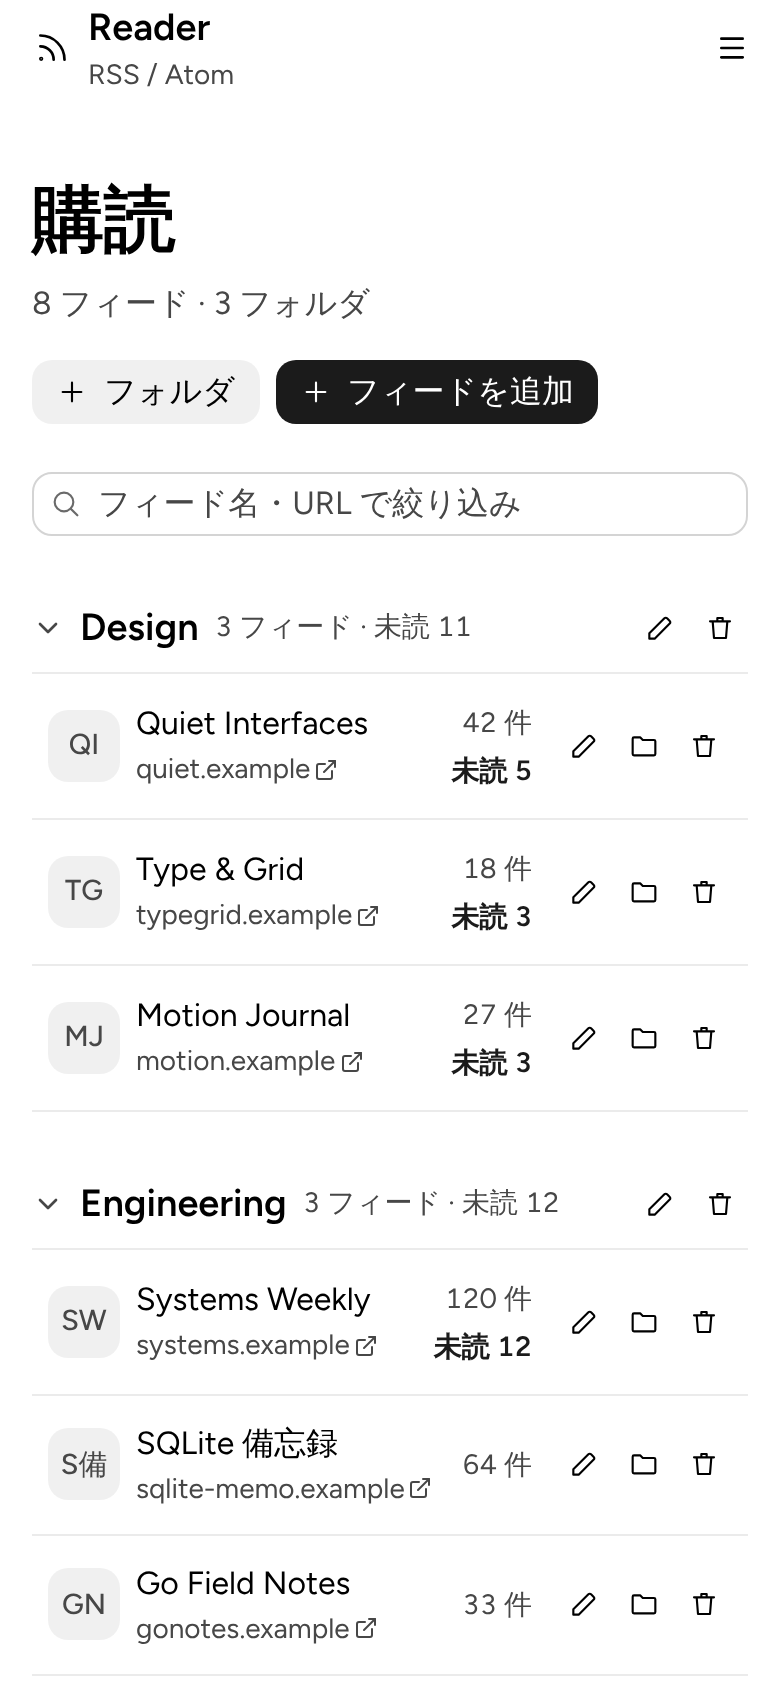
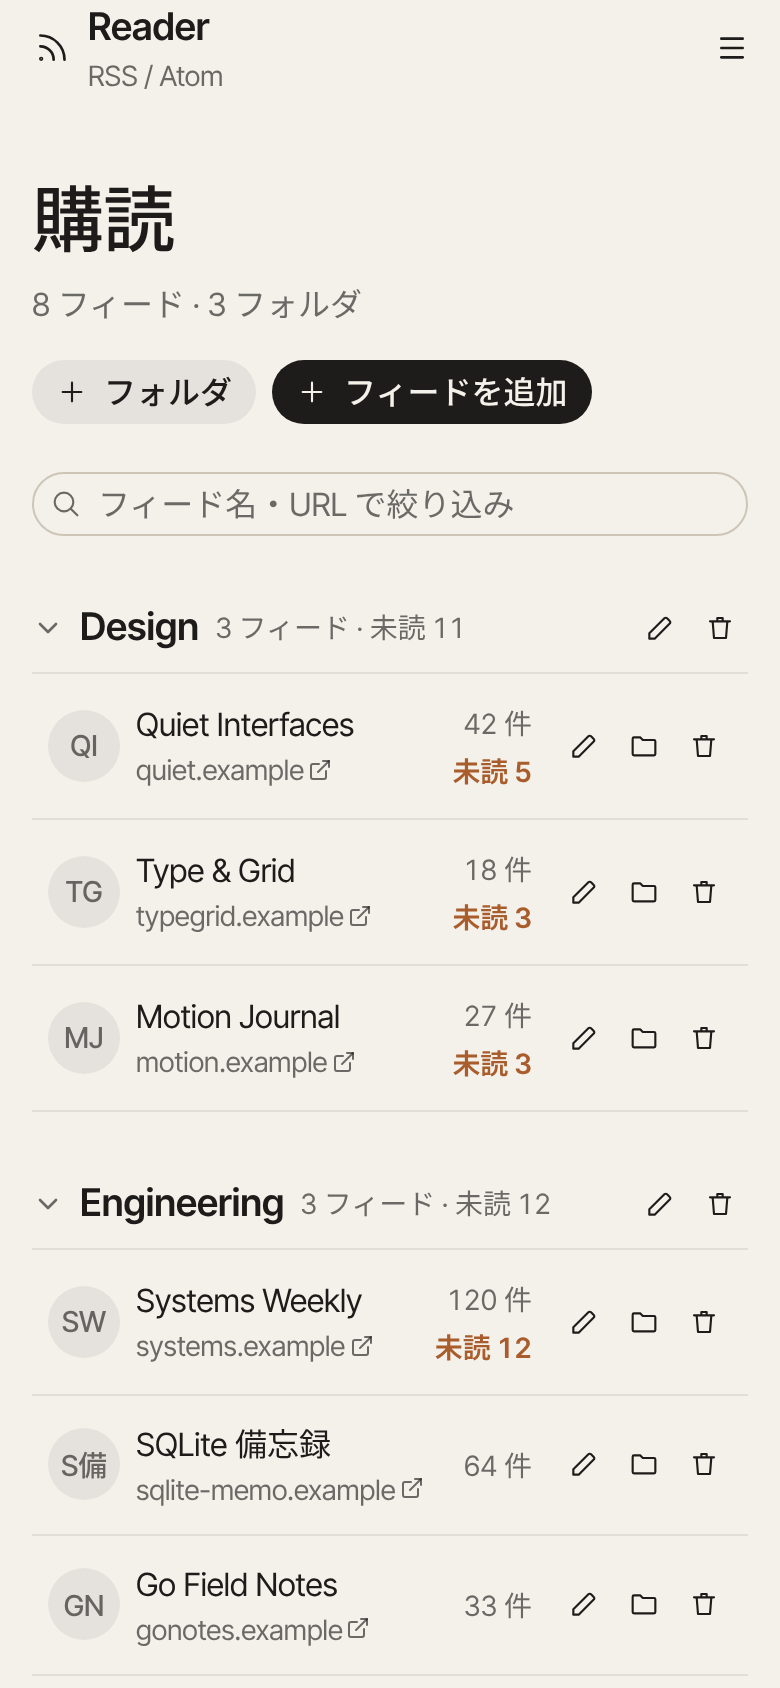
style(web): apply heydamir.design-inspired warm palette and type
- Warm off-black (#151413) / cream (#efe9de) in dark, warm paper in light,
  secondary text at 64% alpha, warm amber text accent
- Inter Tight + Noto Sans JP, medium-weight headings with tight tracking
- Pill-shaped controls, softer containers
- Overrides live in styles.css at (0,2,0) to beat the theme's @scope rules
- Refresh screenshots

Claude-Session: https://claude.ai/code/session_01ShXg4Y4GaTBUJregbuikTx

diff --git a/web/src/styles.css b/web/src/styles.css
@@ -12,12 +12,52 @@
 @import "@astryxdesign/core/tailwind-theme.css";
 @import "tailwindcss/utilities.css" layer(utilities);
 
-/* 日本語の字形は Noto Sans JP にフォールバックさせる（Figtree は欧文のみ） */
+/*
+ * ブランド上書き（heydamir.design を参考にした、暖色のオフブラック × クリーム）。
+ * テーマは @scope ([data-astryx-theme="neutral"]) の :scope (0,1,0) で宣言するので、
+ * 同じレイヤー内で属性を重ねて (0,2,0) にし、確実に勝たせる。値は light-dark(ライト, ダーク)。
+ */
 @layer astryx-theme {
-  :root,
-  [data-astryx-theme] {
-    --font-family-body: Figtree, "Noto Sans JP", -apple-system, BlinkMacSystemFont, "Segoe UI", sans-serif;
-    --font-family-heading: Figtree, "Noto Sans JP", -apple-system, BlinkMacSystemFont, "Segoe UI", sans-serif;
+  [data-astryx-theme][data-astryx-theme] {
+    --font-family-body: "Inter Tight", "Noto Sans JP", ui-sans-serif, system-ui, sans-serif;
+    --font-family-heading: "Inter Tight", "Noto Sans JP", ui-sans-serif, system-ui, sans-serif;
+
+    --color-background-body: light-dark(#f4f1eb, #151413);
+    --color-background-surface: light-dark(#f4f1eb, #151413);
+    --color-background-card: light-dark(#fbf9f5, #1d1b19);
+    --color-background-popover: light-dark(#fbf9f5, #1d1b19);
+    --color-background-muted: light-dark(#e9e4da, #262422);
+    --color-background-gray: light-dark(#e2dcd1, #302d2a);
+    --color-accent-muted: light-dark(#e9e4da, #302d2a);
+
+    --color-text-primary: light-dark(#1e1c1a, #efe9de);
+    --color-text-secondary: light-dark(#1e1c1aa3, #efe9dea3);
+    --color-icon-primary: light-dark(#1e1c1a, #efe9de);
+    --color-icon-secondary: light-dark(#1e1c1aa3, #efe9dea3);
+
+    --color-border: light-dark(#1e1c1a17, #efe9de17);
+    --color-border-emphasized: light-dark(#cdc5b8, #4a4641);
+    --color-overlay-hover: light-dark(#1e1c1a0d, #efe9de0f);
+
+    /* 主ボタンは地の反転色、文字のアクセントだけ暖色 */
+    --color-accent: light-dark(#1e1c1a, #efe9de);
+    --color-on-accent: light-dark(#f4f1eb, #151413);
+    --color-text-accent: light-dark(#a95c2c, #f2b48a);
+    --color-icon-accent: light-dark(#a95c2c, #f2b48a);
+
+    /* ピル型の操作要素、柔らかいコンテナ */
+    --radius-element: 9999px;
+    --radius-container: 1.25rem;
+  }
+}
+
+@layer components {
+  /* 見出しは中太 + 詰めた字間（Inter Tight の見え方に合わせる） */
+  :where(h1, h2, h3) {
+    letter-spacing: -0.012em;
+  }
+  ::selection {
+    background: color-mix(in srgb, var(--color-text-accent) 28%, transparent);
   }
 }
 

diff --git a/web/src/pages/HomePage.tsx b/web/src/pages/HomePage.tsx
@@ -38,7 +38,17 @@ export function HomePage() {
         </div>
         <PageHeader
           title="ホーム"
-          caption={unread.data ? (total > 0 ? `未読 ${total} 件` : 'すべて読みました') : ' '}
+          caption={
+            !unread.data ? (
+              '\u00a0'
+            ) : total > 0 ? (
+              <>
+                未読 <span className="font-medium text-[var(--color-text-accent)]">{total}</span> 件
+              </>
+            ) : (
+              'すべて読みました'
+            )
+          }
           actions={
             <Button
               label="更新"

diff --git a/web/src/components/ArticleRow.tsx b/web/src/components/ArticleRow.tsx
@@ -65,7 +65,7 @@ export const ArticleRow = memo(function ArticleRow({ article: a, onSetRead }: Pr
             </Text>
           )}
         </div>
-        <Heading level={2} weight={a.isRead ? 'medium' : 'semibold'} color={a.isRead ? 'secondary' : 'primary'} textWrap="pretty">
+        <Heading level={2} weight={a.isRead ? 'normal' : 'medium'} color={a.isRead ? 'secondary' : 'primary'} textWrap="pretty">
           <a
             href={href ?? undefined}
             target="_blank"

diff --git a/web/index.html b/web/index.html
@@ -8,7 +8,7 @@
     <link rel="preconnect" href="https://fonts.googleapis.com" />
     <link rel="preconnect" href="https://fonts.gstatic.com" crossorigin />
     <link
-      href="https://fonts.googleapis.com/css2?family=Figtree:wght@400;500;600;700&family=Noto+Sans+JP:wght@400;500;600;700&display=swap"
+      href="https://fonts.googleapis.com/css2?family=Inter+Tight:wght@400..700&family=Noto+Sans+JP:wght@400;500;600;700&display=swap"
       rel="stylesheet"
     />
   </head>

diff --git a/web/src/components/PageHeader.tsx b/web/src/components/PageHeader.tsx
@@ -7,7 +7,7 @@ export function PageHeader({ title, caption, actions }: { title: string; caption
   return (
     <header className="flex flex-wrap items-end gap-x-6 gap-y-4 pt-10 pb-6 sm:pt-16">
       <div className="min-w-0 grow basis-64">
-        <Heading level={1} type="display-2" weight="semibold">
+        <Heading level={1} type="display-2" weight="medium">
           {title}
         </Heading>
         {caption && (
